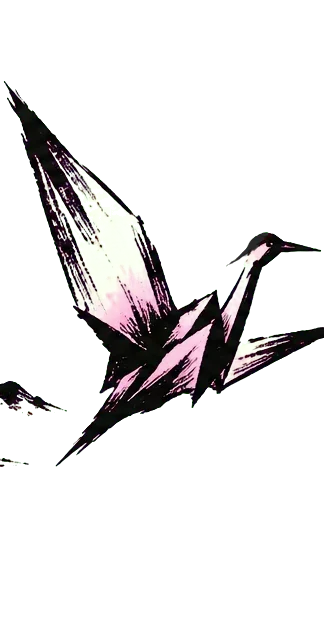
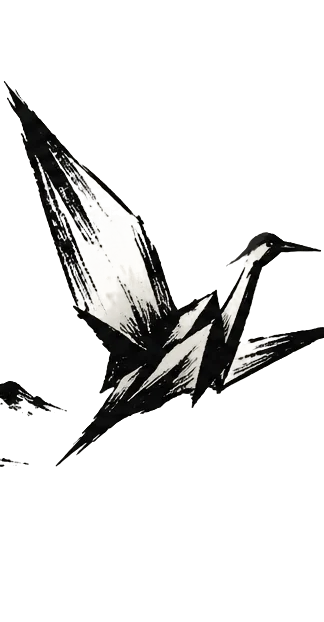
Round 29: the real artist's desk, living margins, docs
The desk top is the owner's pick: a real photo of a green cutting mat on a
white desk, edited to drop the girly things; daylight instead of the night
lamp, the room past the desk is daylit too, the photo is bigger and the
opening looks inside it. Big ink doodles draw themselves into the empty
sheet of the paper chapters on wide screens (pine, far ridge, crane, wave;
ink only). The peek pulls back further on narrower screens. Docs updated.

Claude-Session: https://claude.ai/code/session_01CTrVorkmRxEpZkk6YbYEH3

diff --git a/src/desk/desk.ts b/src/desk/desk.ts
@@ -565,7 +565,9 @@ function drawBrush(f: Frame) {
 /* ------------------------------------------------------------ the desk itself */
 
 /** the desk's props, lying round the sheet (scripts/gen-cine.sh props_1, props_2) */
-const PROPS = ['prop1_0', 'prop1_1', 'prop1_2', 'prop2_0', 'prop2_1', 'prop2_2'];
+const PROPS = ['prop1_0', 'prop1_1', 'prop1_2', 'prop2_0', 'prop2_1'];
+/** the daylit room past the desk's edge (also the page behind the canvases while the camera is out: src/style.css) */
+const ROOM = '#e2ddd4';
 /** which painted desk top (dev: ?desk=desk_a to try another) */
 const DESK_TOP = (typeof location === 'object' && new URLSearchParams(location.search).get('desk')) || 'desk_top';
 /** how far the desk reaches round the sheet, as multiples of the screen (the dark takes over past it) */
@@ -593,9 +595,11 @@ function drawBase(w: number, h: number) {
   base.height = Math.round(DH * RES);
   const g = base.getContext('2d')!;
   g.setTransform(RES, 0, 0, RES, -X0 * RES, -Y0 * RES);
+  g.fillStyle = ROOM;
+  g.fillRect(X0, Y0, DW, DH);
   // the desk top, centred under the sheet, mirrored out on every side so it never runs out
   const wood = bgImage(DESK_TOP);
-  const ww = w * 2.5, wh = ww / 1.5;
+  const ww = w * 3.2, wh = ww / 1.5;
   const ox = w / 2 - ww / 2, oy = h * 0.5 - wh / 2;
   if (wood) {
     for (let j = -1; j <= 1; j++) for (let i = -1; i <= 1; i++) {
@@ -605,19 +609,19 @@ function drawBase(w: number, h: number) {
       g.drawImage(wood, -ww / 2, -wh / 2, ww, wh);
       g.restore();
     }
-  } else { g.fillStyle = '#d9cbb0'; g.fillRect(X0, Y0, DW, DH); }
+  } else { g.fillStyle = ROOM; g.fillRect(X0, Y0, DW, DH); }
   // daylight: a soft bright pool on the sheet, the far desk falling gently into shade
   const lx = w * 0.45, ly = h * 0.35;
   const pool = g.createRadialGradient(lx, ly, h * 0.3, lx, ly, w * 1.7);
   pool.addColorStop(0, 'rgba(255,250,235,0.10)');
-  pool.addColorStop(0.5, 'rgba(255,250,235,0)');
-  pool.addColorStop(0.85, 'rgba(30,22,16,0.35)');
-  pool.addColorStop(1, 'rgba(20,18,15,0.9)');
+  pool.addColorStop(0.55, 'rgba(255,250,235,0)');
+  pool.addColorStop(0.8, 'rgba(226,221,212,0.5)');
+  pool.addColorStop(0.95, ROOM);
   g.fillStyle = pool;
   g.fillRect(X0, Y0, DW, DH);
   // the sheet lies a little proud of the wood: its soft shadow
   g.save();
-  g.shadowColor = 'rgba(0,0,0,0.6)';
+  g.shadowColor = 'rgba(30,24,16,0.45)';
   g.shadowBlur = h * 0.05;
   g.shadowOffsetX = h * 0.012;
   g.shadowOffsetY = h * 0.022;
@@ -635,7 +639,6 @@ function drawBase(w: number, h: number) {
   prop('prop1_1', -h * 0.16, -h * 0.15, h * 0.62, -0.95); // the brush, wet from it
   prop('prop2_1', w * 0.16, h * 1.17, h * 0.3, 0.22); // the eraser (the villain, off duty)
   prop('prop1_0', w + h * 0.18, h * 1.08, h * 0.62, 1.15); // the red pencil
-  prop('prop2_2', w + h * 0.6, -h * 0.26, h * 0.4, 0); // a coffee, gone cold
   return base;
 }
 
@@ -649,8 +652,8 @@ let openT = 0, openDone = false, peekK = 0, lastShot: Shot | null = null, lastM:
 /** the opening: low across the desk in the lamplight, craning up and pushing into the sheet */
 function openShot(w: number, h: number, t: number): Shot {
   const u = seg(t, 0.25, OPEN);
-  // close and low over the inkstone and the brush, the sheet off to the right in the lamplight
-  const a: Shot = { cx: -w * 0.1, cy: h * 0.32, s: 1.9, tilt: 64, roll: -10 };
+  // close and low across the desk, over the inkstone and the brush, the sheet off to the right in the daylight
+  const a: Shot = { cx: w * 0.12, cy: h * 0.4, s: 1.9, tilt: 58, roll: -10 };
   const r = rest(w, h);
   const kc = ease.inOut3(u);
   return {
@@ -665,7 +668,9 @@ function openShot(w: number, h: number, t: number): Shot {
 
 /** the reader stopped: ease back over the desk, a slow drift while they rest */
 function peekShot(w: number, h: number, t: number): Shot {
-  return { cx: w * 0.5 + Math.sin(t * 0.16) * w * 0.035, cy: h * 0.56, s: 1.55, tilt: 15 + Math.sin(t * 0.11) * 2, roll: -1.4 + Math.sin(t * 0.13) * 0.6 };
+  // far enough back that the margins' things fit beside the sheet on a narrower screen too
+  const s = Math.max(1.55, 1 + (2.15 * h * 0.45) / w);
+  return { cx: w * 0.5 + Math.sin(t * 0.16) * w * 0.035, cy: h * 0.56, s, tilt: 15 + Math.sin(t * 0.11) * 2, roll: -1.4 + Math.sin(t * 0.13) * 0.6 };
 }
 
 /** the end: pull back to the finished drawing on the desk, the card beside it */

diff --git a/src/sketch/margins.ts b/src/sketch/margins.ts
@@ -1,0 +1,66 @@
+import type { Frame } from '../core/frame';
+import { clamp } from '../core/math';
+import { artImage, artSize, queueArt } from './art';
+
+/*
+ * LIVING MARGINS (round 29). On a wide screen the paper chapters leave a lot
+ * of empty sheet beside him, so the sheet's margins fill with big ink
+ * doodles (scripts/gen-cine.sh doodles: a pine, a far ridge, a crane, a wave)
+ * that draw themselves in, left to right under a ragged wet edge, as the
+ * scene reaches them. One strong shape each, in ink only (the film's one red
+ * circle stays the Spark's).
+ */
+
+export const DOODLE = { pine: 'doodle_0', ridge: 'doodle_1', crane: 'doodle_2', wave: 'doodle_3' } as const;
+
+/** wide enough for margins (any wide screen, mouse or touch) */
+export const wideSheet = (f: Frame) => f.w >= 1000 && f.w / f.h >= 1.3;
+
+let queued = false;
+let cut: { c: HTMLCanvasElement; g: CanvasRenderingContext2D } | null = null;
+
+/** draw doodle `k` with its foot (bottom middle) at (x, y), `height` pixels tall, drawn in up to `reveal` (0..1) */
+export function drawDoodle(ctx: CanvasRenderingContext2D, k: string, x: number, y: number, height: number, reveal: number, alpha = 0.9, flip = false) {
+  if (!queued) { queued = true; Object.values(DOODLE).forEach((d, i) => queueArt(d, 12 + i)); }
+  reveal = clamp(reveal);
+  if (reveal <= 0 || alpha <= 0) return;
+  const im = artImage(k);
+  if (!im) return;
+  const [aw, ah] = artSize(k);
+  const width = height * (aw / ah);
+  ctx.save();
+  ctx.globalAlpha *= alpha;
+  ctx.translate(x, y);
+  if (flip) ctx.scale(-1, 1);
+  if (reveal >= 1) {
+    ctx.drawImage(im, -width / 2, -height, width, height);
+  } else {
+    // the brush still going: everything left of a ragged edge (an offscreen cut, so the edge is soft ink, not a hard clip)
+    const W = Math.max(8, Math.ceil(width)), H = Math.max(8, Math.ceil(height));
+    if (!cut || cut.c.width < W || cut.c.height < H) {
+      const c = document.createElement('canvas');
+      c.width = Math.max(W, cut?.c.width ?? 0);
+      c.height = Math.max(H, cut?.c.height ?? 0);
+      cut = { c, g: c.getContext('2d')! };
+    }
+    const g = cut.g;
+    g.setTransform(1, 0, 0, 1, 0, 0);
+    g.globalCompositeOperation = 'source-over';
+    g.clearRect(0, 0, cut.c.width, cut.c.height);
+    g.drawImage(im, 0, 0, W, H);
+    g.globalCompositeOperation = 'destination-in';
+    const edge = reveal * W * 1.08;
+    const grad = g.createLinearGradient(edge - W * 0.08, 0, edge, 0);
+    grad.addColorStop(0, 'rgba(0,0,0,1)');
+    grad.addColorStop(1, 'rgba(0,0,0,0)');
+    g.fillStyle = grad;
+    g.beginPath();
+    g.moveTo(0, 0);
+    for (let i = 0; i <= 10; i++) g.lineTo(edge + Math.sin(i * 2.3 + reveal * 7) * W * 0.03, (i / 10) * H);
+    g.lineTo(0, H);
+    g.closePath();
+    g.fill();
+    ctx.drawImage(cut.c, 0, 0, W, H, -width / 2, -height, width, height);
+  }
+  ctx.restore();
+}

diff --git a/src/sketch/run.ts b/src/sketch/run.ts
@@ -4,6 +4,7 @@ import { type Pt, TAU, clamp, ease, hash, lerp, seg } from '../core/math';
 import { paperTile } from '../core/sprites';
 import { artSize, drawArtFoot, drawFig, figHeight, hasPose, meta, poseHeight, poseScale, drawPose } from './art';
 import { drawBg } from './bg';
+import { DOODLE, drawDoodle, wideSheet } from './margins';
 import { INK, PAPER, drawSpark, drawSparkStreak, idlePose } from './common';
 import { dryStreak } from './fx';
 import { stage, stageAhead } from './still';
@@ -198,6 +199,12 @@ export function drawRun(f: Frame, L: number) {
   ctx.strokeStyle = 'rgba(27,23,20,0.25)';
   ctx.lineWidth = 1.5 / z;
   ctx.strokeRect(left, top, edgeX - left, bot - top);
+
+  // ---- a wide sheet: a far ridge brushed into the empty top of the page, drifting slowly as he runs
+  if (wideSheet(f)) {
+    const sx = w * (0.8 - L * 0.025), sy = h * 0.42;
+    drawDoodle(ctx, DOODLE.ridge, fw[0] + (sx - fs[0]) / z, fw[1] + (sy - fs[1]) / z, (h * 0.4) / z, seg(L, 0.3, 1.4), 0.8 * (1 - Math.max(kB, kC)));
+  }
 
   // ---- what the Eraser has rubbed out: everything behind it (a grey smudge where the line was)
   const rubbed = eraserOn ? EX - face * 0.2 : left;

diff --git a/src/sketch/still.ts b/src/sketch/still.ts
@@ -5,6 +5,7 @@ import { drawPose, ib, poseHeight } from './art';
 import { ONE_HEIGHT, ONE_START, drawOneLine } from './oneline';
 import { INK, drawGround, drawPaper, drawSpark, drawSparkStreak, drawTitle, faceOf, hop, idlePose , titleFit } from './common';
 import { shockRing } from './fx';
+import { DOODLE, drawDoodle, wideSheet } from './margins';
 
 /*
  * I · STILL.
@@ -84,6 +85,8 @@ export function drawStill(f: Frame, L: number) {
 
   // ---- the ground he'll stand on, brushed under him as he is drawn
   drawGround(ctx, w * 0.12, w * 0.88, gy + face * 0.05, face * 0.07, ease.out2(seg(L, ST.line[0] - 0.2, ST.line[0] + 0.5)));
+  // a wide sheet: a pine brushes itself in at the far end of the line as the Spark lands (src/sketch/margins.ts)
+  if (wideSheet(f)) drawDoodle(ctx, DOODLE.pine, w * 0.87, gy + face * 0.06, h * 0.46, Math.max(seg(f.intro, ST.drop[1], ST.drop[1] + 1.3), seg(L, 0.1, 0.9)), 0.85 * (1 - seg(L, 3.0, 3.8)));
 
   // ---- the hero: the Spark's ink leaps to the page and one unbroken line loops him into being;
   // then the ink floods into the line, trembles wet and settles; a look at the Spark, a first step

diff --git a/src/sketch/home.ts b/src/sketch/home.ts
@@ -1,4 +1,5 @@
 import { deskOn } from '../desk/layout';
+import { DOODLE, drawDoodle, wideSheet } from './margins';
 import { drawSeal } from '../acts/ink';
 import { brush } from '../core/brush';
 import type { Frame } from '../core/frame';
@@ -216,6 +217,12 @@ export function drawHome(f0: Frame, L: number) {
   const name = seg(L, HM.stand, HM.stand + 0.8);
   if (name > 0) {
     drawTitle({ ...f, intro: 0.2 + name * 2 }, w / 2, h * 0.07, titleFit(w * 0.42, gy - face * 3.6 - h * 0.07 - face * 0.3), 1);
+  }
+  // a wide sheet with no card beside it: a crane and the sea he crossed brush themselves into the margin
+  if (side === 0 && wideSheet(f) && L > HM.stand) {
+    const k = seg(L, HM.stand, HM.offer + 0.4), gone = 1 - seg(L, HM.loop[0] - 0.1, HM.loop[0] + 0.2);
+    drawDoodle(ctx, DOODLE.crane, w * 0.83, h * 0.36 + Math.sin(t * 1.3) * h * 0.008, h * 0.26, k, 0.8 * gone);
+    drawDoodle(ctx, DOODLE.wave, w * 0.87, h * 1.01, h * 0.34, seg(L, HM.stand + 0.3, HM.offer + 0.7), 0.8 * gone);
   }
 
   // ---- the Eraser: where it is, and what it has rubbed out (the ground behind it)

diff --git a/src/style.css b/src/style.css
@@ -192,4 +192,5 @@ html.cine .hello::before {
 html.cine .hello-title, html.cine .hello-mail, html.cine .hello-links a { color: var(--ink); }
 html.cine .hello-kicker { color: #5b5449; }
 html.cine .hello-again { background: var(--ink); color: var(--paper); }
+html.cine, html.cine body { background: #e2ddd4; }
 html.cine #sign { left: 2vw; right: 44vw; top: 16vh; height: 60vh; }

diff --git a/docs/HANDOFF.md b/docs/HANDOFF.md
@@ -101,28 +101,52 @@ seam.
   a shrink. Life is 0.55 beats, but at least 0.7 s of wall clock once passed
   going forward; hidden during holds. On the desk it is bigger and sits on the
   edge of the picture. Positions are first guesses: check each at phone size.
-- **The desk (round 28, wide screens with a mouse only: `src/desk/`).**
-  `layout.ts deskOf(w, h)` is null unless pointer is fine, w ≥ 1000 and
-  w/h ≥ 1.3; the margins are each side of an h·0.7 column. `desk.ts`:
-  - left: two taped sketchbook scraps per act (`scrap1-4_*`, slap in at the
-    act's start, red-pencil cross-out and slide away at its end; Home's leave
-    at `HM.offer` for the title); a flipbook whose pencil test (`pencil1-3_*`,
-    24 frames) turns pages with the playhead and riffles by itself when idle.
-  - right: an exposure sheet whose rows scroll under a highlighted playhead
-    row (8 rows a beat); `NOTES` (plus every pow hit) are handwritten in
-    (Caveat, added to the Google Fonts link) as their frames come up.
-  - stickers (`stick1_*`, `stick2_*`): one slaps on per finished act; drag and
-    flick them (simple physics); scrolling back before the slap resets one.
-  - the mouse is a brush: drag paints (thick slow, thin fast), click splats;
-    ink dries away after ~5 s; ink on paper acts, red on painted ones.
-  - the right side slides off while the contact card is up (`cleared`).
-  - desk drawings are never queued on phones (`DESK` in `art.ts`,
-    `queueArt`); shadows are baked once per size (`bake`).
-  Art: `scripts/gen-desk.sh` (Codex) → `scripts/cut-grid.py` (grids on
-  magenta keyed only from the outside so purple letters survive; `--white`
-  for pencil on white; `--split` for a touching row).
-  Still to do: check every pow position at phone size, the desk at
-  1280×800 / 1920×1080 / ultrawide, perf, then the preview.
+- **The desk as a camera set (round 29, wide screens with a mouse only: `src/desk/`).**
+  Round 28's always-on margins were rejected ("deletes the whole immersion").
+  Now the film fills the screen, and the desk is only seen when a camera
+  moves over it. `layout.ts deskOn(w, h)`: pointer fine, not reduced motion,
+  w ≥ 1000, w/h ≥ 1.3 (phones and tablets keep the plain film).
+  - `camera.ts`: a `Shot` is {cx, cy (look point on the desk), s (1 = sheet
+    fills the screen), tilt, roll (deg)}. `matrix()` builds one perspective
+    DOMMatrix (lens = 1.15 × the longer side); it is set as CSS `matrix3d` on
+    `#film` and (offset) on the `#desk` canvas, so the GPU moves them and the
+    film's drawing code is untouched. `unproject()` maps the mouse back onto
+    the desk (homography inverse): stickers can be dragged there, and the
+    signature (`screenToSheet`, main.ts) lands on the tilted sheet.
+  - Shots (`desk.ts`): **opening** (`openShot`, 3.8 s from load: low across
+    the desk at tilt 58°, focus pull on the desk canvas, crane up, push in;
+    the film's intro clock waits `INTRO_DELAY` 1.8 s; HUD hidden by
+    `html.cine-open`; a scroll hurries it; landing mid-film skips it);
+    **peek** (idle > 2.2 s: eases back to s ≥ 1.55 with a 15° tilt and a slow
+    drift, snaps back in 0.35 s on scroll); **end** (`endShot`: from
+    `HM.stand − 0.35` to `HM.offer`, the sheet on the left, the contact card
+    a taped paper card on the desk at the right via `html.cine` CSS; back in
+    as the loop starts). At rest the transforms are cleared (`park`).
+  - `#desk` canvas covers `EXT` (−1.25…2.25 w, −1.4…2.2 h) at `RES` 0.55 per
+    CSS px; `drawBase` (once per size / when art arrives) = the desk photo
+    `desk_top` (3.2 w wide, mirrored out on every side), a daylight pool, the
+    sheet's shadow and the props (peg bar the sheet hangs on, inkstone, brush,
+    eraser, red pencil: `prop1_*`, `prop2_*`). Per frame: the act's scraps and
+    flipbook in the left margin, the exposure sheet and stickers in the right
+    (margins h·0.45). Past the desk is the daylit room `ROOM` (#e2ddd4).
+  - The mouse brush draws on its own screen-space canvas `#ink`; pow words
+    stay in the picture (bigger on PC).
+  - Desk top: the owner chose a real photo (B: green cutting mat on a white
+    desk) "but remove the girly things" → `desk_real_b2` (no flower, lemon
+    or rainbow stickers, black/kraft tape, black mug, primary swatches).
+    Rejected: the dark walnut desk under a night lamp ("lonely dark brown"),
+    and cartoon desks ("i meant real desk lol not cartoonish").
+  - Dev: `scripts/shoot-open.sh [WxH] [secs…]` (the opening),
+    `node scripts/shoot-desk.mjs <raw beats> [WxH] [idle s]` (peek / end;
+    `WAIT=ms` for slow big screens), `?desk=<name>` tries another desk top.
+  Art: `scripts/gen-cine.sh` (desk, props, doodles).
+- **Living margins (round 29, any wide screen: `sketch/margins.ts`).** Big
+  ink doodles brush themselves in (left to right under a soft ragged edge)
+  in the paper chapters' empty sheet: a pine at the far end of Still's line
+  (as the Spark lands), a far ridge in Run's empty top (drifting, in world
+  space), a crane and a wave in Home's right half when no card column is
+  there. Ink only (their red was taken out: the film's one red circle is the
+  Spark).
 - **Perf** (headless, JS ms/frame): 0.3 – 3.4 everywhere.
 - Codex image calls: use `--image=a.png --image=b.png` (a bare `-i` swallows
   the prompt as another file), `< /dev/null`.

diff --git a/docs/OWNER_INSTRUCTIONS.md b/docs/OWNER_INSTRUCTIONS.md
@@ -75,6 +75,21 @@ themselves, not to the docs: *"you report to me and not the docs"*.
 
 ## 3. Decisions (most recent first)
 
+**Round 29 — the desk becomes a camera set (PC):** *"stop this and get tge
+latest pull i asked to fill up for destkop but it kind of deletes the whole
+immersion of the websiye. so i want yoy to think more"*. Picked all four:
+desk as bookends (open on the desk and push into the sheet, pull back at the
+end), extend the world wider, living paper margins, desk peeks in on pause;
+keep all of round 28's pieces (comic words, stickers, flipbook + exposure
+sheet, mouse brush) — *"keep some of them on thr desk make it cinematic like
+with good camera angles"*. The desk: *"uhm can we have better desk? and not
+something that would feel loneys dark brown. you can make it funky like an
+artist would usually do… lets also use funky style or messy for desk"*, *"so
+like desk wouldnt say loneliness but would say lively active and fun"*; then
+*"no i meant real desk lol not cartoonish. funky as in should look like that
+but real sorry."*; picked the green cutting mat — *"b but remove the girly
+things"*.
+
 **Round 28 — the desk round the picture (PC), and comic impact words
 (everywhere):** *"now okay great we are at a great point and i want now to
 focua specifically on pc screen because there are a lot of blank spaves we can

diff --git a/docs/BRIEF.md b/docs/BRIEF.md
@@ -271,3 +271,14 @@ clarified: *"not restore… do something in the current art style"*. Built a
 story in the ink-in-water style with the first film's swordsmen (Two Drops +
 The Last Stroke): src/water/story.ts. Lesson: the owner wants story and set
 pieces, not just mood.
+
+**Round 29: the desk as a camera set.** Round 28's desk round the picture
+(always on, on PC) "kind of deletes the whole immersion". Lesson: fill a big
+screen by moving a camera through a world, not by framing the film with
+panels. Now the film is a sheet on a real desk: the page opens on the desk and
+pushes in, eases back over it when the reader stops, and pulls back at the end
+(the contact card taped beside the drawing); between those moments the film
+fills the screen. The desk must feel "lively active and fun", real (not
+cartoon), and not "girly": a green cutting mat on a white desk with a plant,
+markers, swatches, a watercolour tin. Wide paper chapters also get big ink
+doodles that draw themselves into the empty margins.

diff --git a/CLAUDE.md b/CLAUDE.md
@@ -33,6 +33,9 @@ Before changing anything, read:
   painted birds, Neon (the letter city) and Shadow's shard cloud are cut.
   Round 23: the Spider-Man-style cameo (the Slinger, then the web-swinger) is cut.
   Round 25: the ink cat and the visible brush laying the run's line are cut.
+  Round 29: the desk always round the picture (it kills the immersion: the desk
+  is only seen when the camera moves over it), the dark night-lamp desk and
+  cartoon desks are out; the desk is a real photo, nothing "girly" on it.
 - **No clusters of small things.** The owner finds many small things
   together "yuck" (flocks, swarms, shard clouds, dense particle fields).
   Prefer one strong shape over many small ones.
